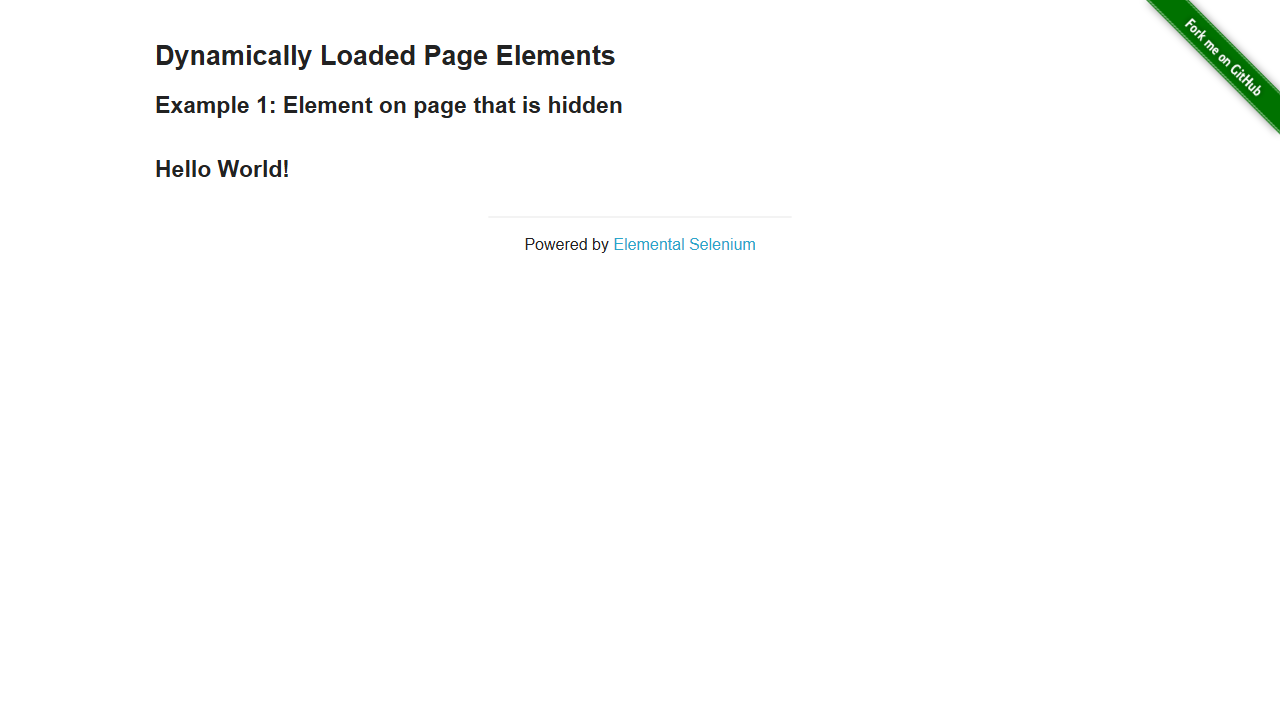
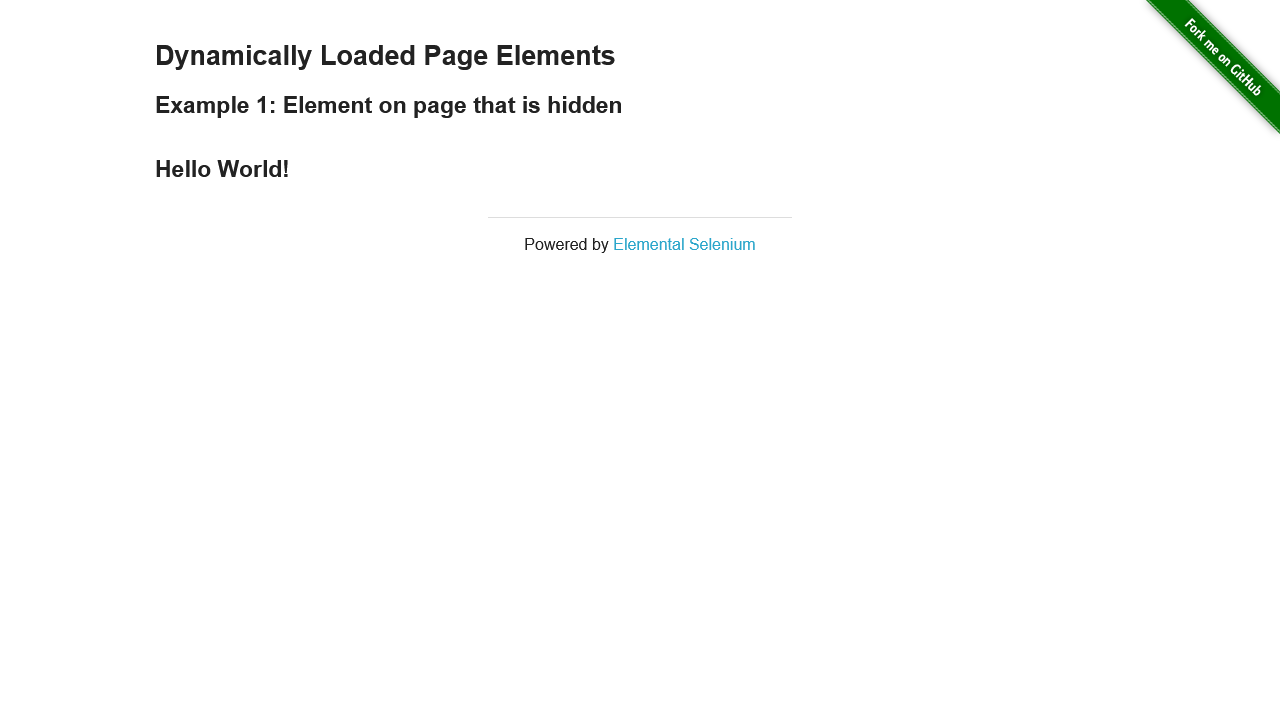
Practice with POM and test hooks

diff --git a/tests/loginPOM-TestHook.spec.js b/tests/loginPOM-TestHook.spec.js
@@ -1,0 +1,22 @@
+const{test, expect} = require('@playwright/test');
+const{LoginPage} = require('../pages/LoginPage');
+test.describe('Test hooks',() =>{
+    let loginPage;
+
+    test.beforeEach(async ({page}) =>{
+        loginPage = new LoginPage(page);
+        await loginPage.goto();
+    });
+    test.afterEach(async({page})=>{
+        await page.close();
+    });
+    test('Login with valid account',async ({page}) =>{
+        await loginPage.login('standard_user','secret_sauce');
+        await expect(page).toHaveURL(/inventory/);
+        await expect(page.locator('.title')).toHaveText('Products')
+    });
+    test('Login with invalid account',async ({page}) =>{
+        await loginPage.login('standard_user','sai_mat_khau');
+        await expect(page.locator('//h3[@data-test="error"]')).toContainText('Epic sadface');
+    });
+});

diff --git a/pages/LoginPage.js b/pages/LoginPage.js
@@ -1,0 +1,17 @@
+class LoginPage{
+    constructor(page){
+        this.page = page;
+        this.usernameInput = page.locator('#user-name');
+        this.passwordInput = page.locator('#password');
+        this.loginBtn = page.locator('#login-button');
+    }
+    async goto(){
+        await this.page.goto('https://www.saucedemo.com/');
+    }
+    async login(username, password){
+        await this.usernameInput.fill(username);
+        await this.passwordInput.fill(password);
+        await this.loginBtn.click();
+    }
+}
+    module.exports = {LoginPage};

diff --git a/tests/loginPOM.spec.js b/tests/loginPOM.spec.js
@@ -1,0 +1,8 @@
+const{test, expect} = require('@playwright/test');
+const{LoginPage} = require('../pages/LoginPage');
+test('Login valid', async({page}) => {
+    const loginPage = new LoginPage(page);
+    await loginPage.goto();
+    await loginPage.login('standard_user','secret_sauce');
+    await expect(page).toHaveURL(/inventory/);
+});

diff --git a/tests/login/login-valid.spec.js b/tests/login/login-valid.spec.js
@@ -5,5 +5,4 @@ test('test', async ({ page }) => {
     await page.getByRole('textbox',{name : 'Password'}).fill('secret_sauce')
     await page.getByRole('button', {name : 'Login'}).click()
     await expect(page.locator('.app_logo')).toBeVisible()
-
 });

diff --git a/tests/login/login_invalid_blankpwd.spec.js b/tests/login/login_invalid_blankpwd.spec.js
@@ -6,6 +6,5 @@ test('test', async ({ page }) => {
     await page.getByRole('button', {name : 'Login'}).click()
     await expect(page.locator('[data-test="error"]')).toHaveText(
      'Epic sadface: Password is required'
-    );
-    
+    );  
 });

diff --git a/tests/login/login_invalid_incorrectpwd.spec.js b/tests/login/login_invalid_incorrectpwd.spec.js
@@ -7,5 +7,4 @@ test('test', async ({ page }) => {
     await expect(page.locator('[data-test="error"]')).toHaveText(
      'Epic sadface: Username and password do not match any user in this service'
     );
-    
 });

diff --git a/tests/login/login_invalid_locked.spec.js b/tests/login/login_invalid_locked.spec.js
@@ -7,5 +7,4 @@ test('test', async ({ page }) => {
     await expect(page.locator('[data-test="error"]')).toHaveText(
      'Epic sadface: Sorry, this user has been locked out.'
     );
-    
 });
